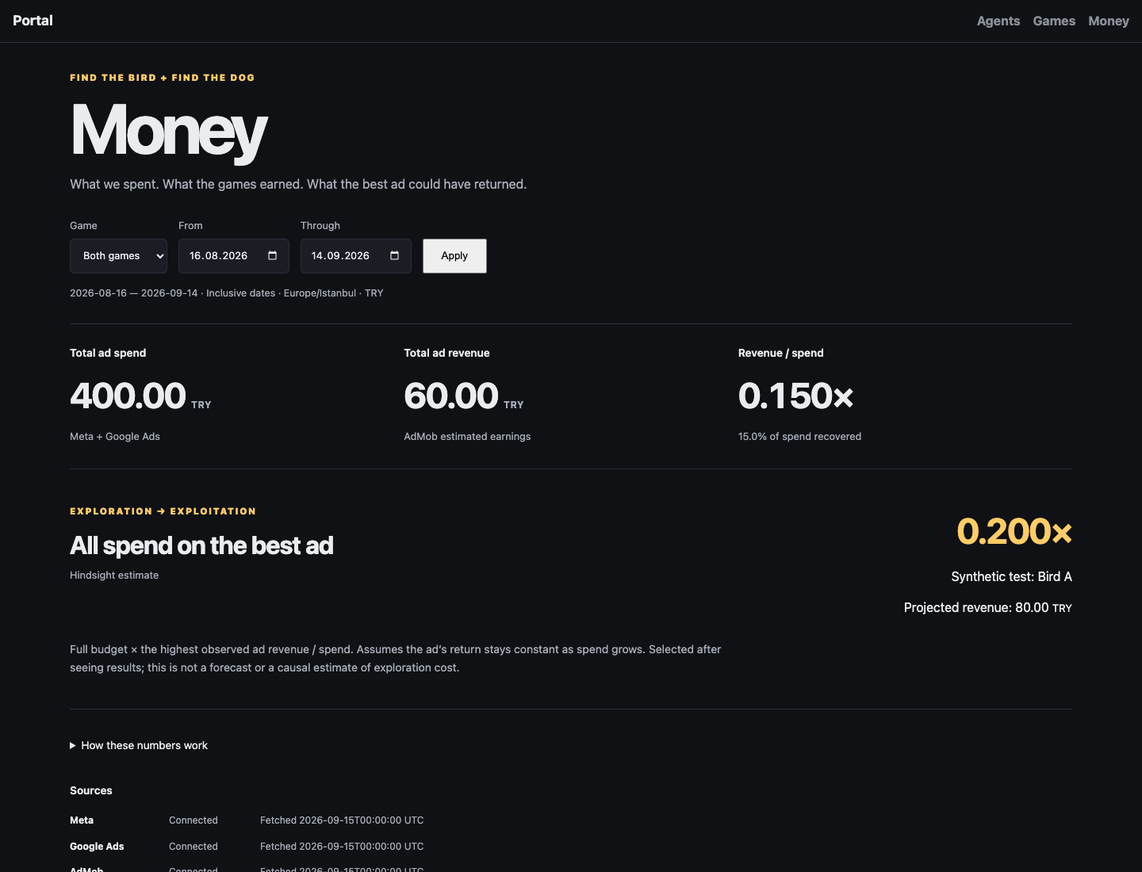
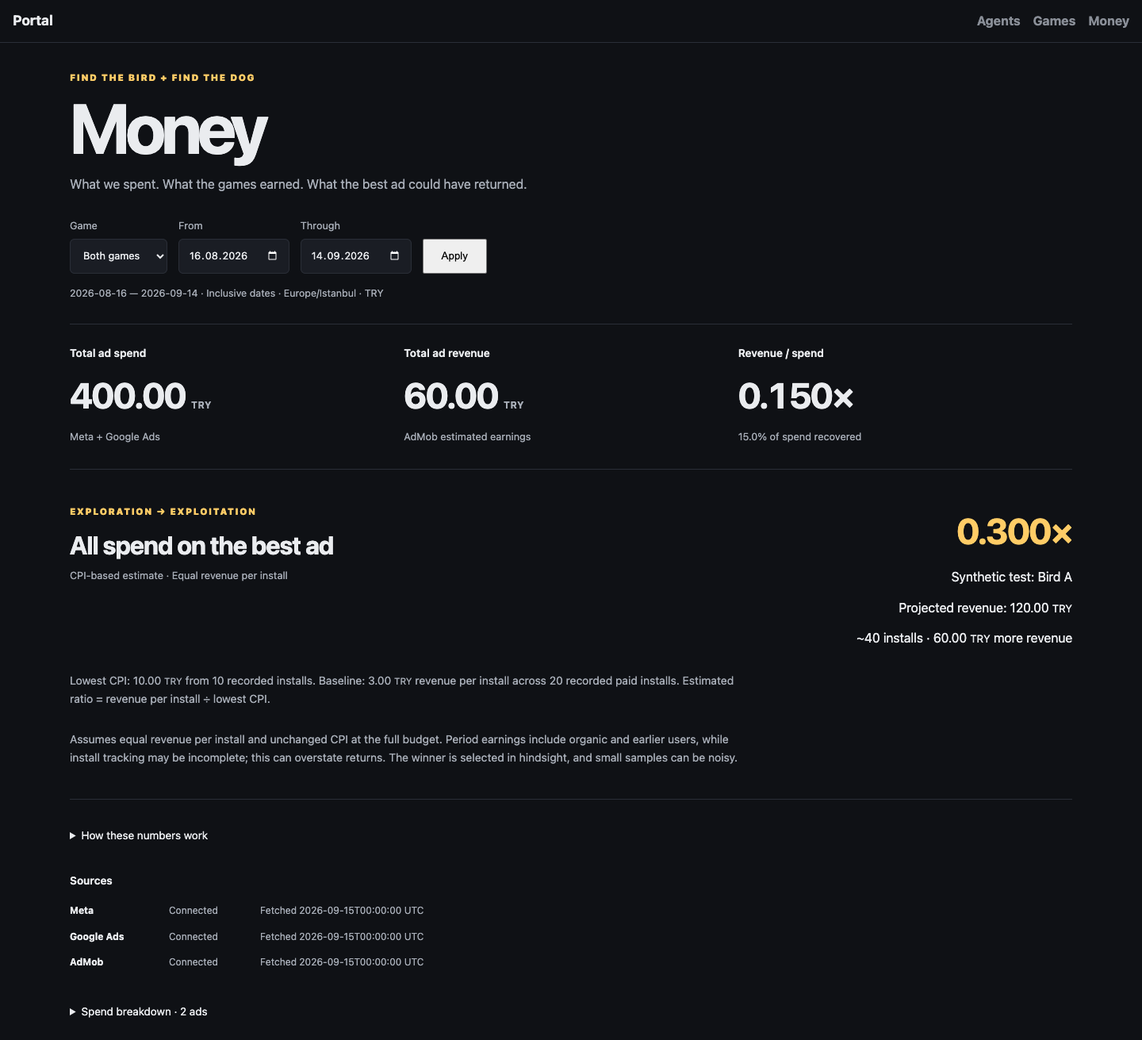
feat(money): estimate full-budget returns from lowest CPI

diff --git a/gallery/templates/money.html b/gallery/templates/money.html
@@ -25,18 +25,19 @@
   <article><h2>Revenue / spend</h2><p class="money-value">{{ ratio(money.ratio) }}</p><p class="money-caption">{% if money.ratio is not none %}{{ '{:.1f}'.format(money.ratio * 100) }}% of spend recovered{% elif money.spend == 0 %}No spend in this period{% else %}Needs complete spend and revenue{% endif %}</p></article>
 </section>
 <section class="money-best" aria-labelledby="best-title">
-  <div><p class="eyebrow">Exploration → exploitation</p><h2 id="best-title">All spend on the best ad</h2><p class="money-caption">Hindsight estimate</p></div>
-  <div class="money-best-result"><p class="money-value">{{ ratio(money.best_ratio) }}</p>{% if money.best %}<p>{{ money.best.name }}</p><p>Projected revenue: {{ cash(money.best_projected_revenue) }}</p>{% endif %}</div>
-  {% if money.best %}<p class="money-explanation">Full budget × the highest observed ad revenue / spend. Assumes the ad’s return stays constant as spend grows. Selected after seeing results; this is not a forecast or a causal estimate of exploration cost.</p>
-  {% else %}<p class="money-explanation">{% if not money.ads %}No paid ads available for this period.{% else %}Revenue must be attributed to each paid ad before we can identify the best one. {{ cash(money.attributed_spend) }} of {{ cash(money.reported_spend) }} in reported spend has ad-level revenue. Missing attribution is not zero revenue.{% endif %}</p>{% endif %}
+  <div><p class="eyebrow">Exploration → exploitation</p><h2 id="best-title">All spend on the best ad</h2><p class="money-caption">CPI-based estimate · Equal revenue per install</p></div>
+  <div class="money-best-result"><p class="money-value">{{ ratio(money.best_ratio) }}</p>{% if money.best %}<p>{{ money.best.name }}</p><p>Projected revenue: {{ cash(money.best_projected_revenue) }}</p><p>~{{ '{:,.0f}'.format(money.best_projected_installs) }} installs · {{ cash(money.best_gain) }} more revenue</p>{% endif %}</div>
+  {% if money.best %}<p class="money-explanation">Lowest CPI: {{ cash(money.best_cpi) }} from {{ '{:g}'.format(money.best.installs) }} recorded installs. Baseline: {{ cash(money.revenue_per_install) }} revenue per install across {{ '{:g}'.format(money.total_installs) }} recorded paid installs. Estimated ratio = revenue per install ÷ lowest CPI.</p>
+  <p class="money-explanation">Assumes equal revenue per install and unchanged CPI at the full budget. Period earnings include organic and earlier users, while install tracking may be incomplete; this can overstate returns. The winner is selected in hindsight, and small samples can be noisy.</p>
+  {% else %}<p class="money-explanation">Needs complete spend and revenue reports, install reporting for every paid ad, and at least one recorded install. Ads with zero recorded installs count toward spend but cannot win.</p>{% endif %}
 </section>
 <details class="money-details"><summary>How these numbers work</summary>
   <p>Revenue / spend compares earnings and acquisition spend recorded during the same dates. Revenue includes organic users and users acquired earlier; it is not cohort ROAS. 1.000× means revenue equals spend.</p>
-  <p>The best-ad ratio uses attributed ad revenue only, never installs, clicks, purchase revenue, or AdMob revenue split in proportion to spend. Meta attribution uses delivery dates with a 7-day click / 1-day view window. Recent delivery may not have matured. Google App campaign spend is included in totals; without ad-level revenue attribution it cannot establish a winning ad.</p>
+  <p>The best-ad estimate uses period ad revenue divided by recorded paid installs, then divides by the lowest observed cost per install (CPI). It assumes the same revenue per install across the selected games and ads. Meta uses recorded mobile app installs on delivery dates with a 7-day click / 1-day view window. Google uses ad-level download conversions. Attribution methods differ, and recent delivery may not have matured. Missing install actions mean no installs recorded, not proof that nobody installed.</p>
   <p>Historical Dog builds used Bird’s AdMob identity. Both-game revenue still includes those earnings once, but the per-game split follows the provider app identity and may be contaminated.</p>
   <p>Coverage: configured Meta and Google Ads accounts, and AdMob mediation earnings for these two games. In-app purchases and other business costs are excluded. Provider earnings are estimates and may be revised. Reports refresh on the next visit after 15 minutes.</p>
 </details>
 <section class="money-sources" aria-label="Reporting sources"><h2>Sources</h2>{% for report in reports %}<div><strong>{{ report.provider }}</strong><span>{{ 'Connected' if report.status == 'ok' else 'Unavailable' }}</span><span>{% if report.observed_at %}Fetched {{ report.observed_at[:19] }} UTC{% else %}No report{% endif %}</span></div>{% endfor %}</section>
-{% if money.ads %}<details class="money-details"><summary>Spend breakdown · {{ money.ads|length }} ads / campaigns</summary><div class="money-table-wrap"><table><thead><tr><th>Ad / campaign</th><th>Game</th><th>Source</th><th>Spend (TRY)</th><th>Attributed ad revenue (TRY)</th><th>Ratio</th></tr></thead><tbody>{% for ad in money.ads %}<tr><td>{{ ad.name }}</td><td>{{ games[ad.game] }}</td><td>{{ ad.provider }}</td><td>{{ '{:,.2f}'.format(ad.spend) }}</td><td>{{ '{:,.2f}'.format(ad.revenue) if ad.revenue is not none else 'Unavailable' }}</td><td>{{ ratio(ad.ratio) }}</td></tr>{% endfor %}</tbody></table></div></details>{% endif %}
+{% if money.ads %}<details class="money-details"><summary>Spend breakdown · {{ money.ads|length }} ads</summary><div class="money-table-wrap"><table><thead><tr><th>Ad</th><th>Game</th><th>Source</th><th>Spend (TRY)</th><th>Recorded installs</th><th>CPI (TRY)</th></tr></thead><tbody>{% for ad in money.ads %}<tr><td>{{ ad.name }}</td><td>{{ games[ad.game] }}</td><td>{{ ad.provider }}</td><td>{{ '{:,.2f}'.format(ad.spend) }}</td><td>{{ '{:g}'.format(ad.installs) if ad.installs is not none else 'Unavailable' }}</td><td>{{ '{:,.2f}'.format(ad.cpi) if ad.cpi is not none else '—' }}</td></tr>{% endfor %}</tbody></table></div></details>{% endif %}
 {% endif %}
 {% endblock %}

diff --git a/gallery/money_providers.py b/gallery/money_providers.py
@@ -79,7 +79,7 @@ def meta(settings, start, end):
     info = request_json(root + "?fields=currency,timezone_name", token)
     if info["currency"] != "TRY" or info["timezone_name"] not in {"Turkey", "Europe/Istanbul"}:
         raise ValueError("Incompatible Meta currency/time zone")
-    params = {"fields": "ad_id,ad_name,adset_id,spend,action_values", "level": "ad",
+    params = {"fields": "ad_id,ad_name,adset_id,spend,actions", "level": "ad",
               "time_range": json.dumps({"since": start, "until": end}), "limit": "500",
               "action_report_time": "impression", "action_attribution_windows": '["7d_click","1d_view"]'}
     rows, identities, cursors = [], {}, set()
@@ -106,12 +106,12 @@ def meta(settings, start, end):
             adset = row["adset_id"]
             game = identities[adset]
             if game:
-                # Purchase value and generic conversion value are NOT ad revenue.
-                values = [v["value"] for v in row.get("action_values", [])
-                          if v["action_type"] == "app_custom_event.fb_mobile_ad_impression"]
-                revenue = str(sum((amount(v) for v in values), amount(0))) if values else None
+                # omni_app_install overlaps mobile_app_install; never add both.
+                values = [v["value"] for v in row.get("actions", [])
+                          if v["action_type"] == "mobile_app_install"]
+                installs = str(sum((amount(v) for v in values), amount(0)))
                 rows.append({"game": game, "ad_id": row["ad_id"], "name": row["ad_name"],
-                             "spend": str(amount(row["spend"])), "revenue": revenue})
+                             "spend": str(amount(row["spend"])), "installs": installs})
         paging = data.get("paging", {})
         if not paging.get("next"):
             return {"currency": "TRY", "timezone": "Europe/Istanbul", "rows": rows}
@@ -140,26 +140,56 @@ def google_ads(settings, start, end):
         account = info["results"][0]["customer"]
         if account["currencyCode"] != "TRY" or account["timeZone"] != "Europe/Istanbul" or account.get("manager"):
             raise ValueError("Incompatible Google Ads account")
-        query = ("SELECT campaign.id, campaign.name, campaign.app_campaign_setting.app_id, metrics.cost_micros "
-                 f"FROM campaign WHERE segments.date BETWEEN '{start}' AND '{end}' AND metrics.cost_micros > 0")
-        body = {"query": query}
-        for _ in range(20):
-            data = request_json(url, token, body, headers)
-            for row in data.get("results", []):
-                campaign = row["campaign"]
-                app_id = campaign.get("appCampaignSetting", {}).get("appId")
-                if not app_id:
-                    raise ValueError("Cannot resolve campaign app identity")
-                game = STORE_GAMES.get(app_id)
-                if game:
-                    rows.append({"game": game, "ad_id": f'{customer}:{campaign["id"]}',
-                                 "name": campaign["name"] + " (campaign)",
-                                 "spend": str(amount(row["metrics"]["costMicros"]) / 1_000_000), "revenue": None})
-            if not data.get("nextPageToken"):
-                break
-            body["pageToken"] = data["nextPageToken"]
-        else:
+        def search(query):
+            body = {"query": query}
+            for _ in range(20):
+                data = request_json(url, token, body, headers)
+                yield from data.get("results", [])
+                if not data.get("nextPageToken"):
+                    return
+                body["pageToken"] = data["nextPageToken"]
             raise ValueError("Incomplete Google Ads pagination")
+
+        window = f"segments.date BETWEEN '{start}' AND '{end}'"
+        campaigns = {}
+        for row in search("SELECT campaign.id, campaign.name, campaign.app_campaign_setting.app_id, metrics.cost_micros "
+                          f"FROM campaign WHERE {window} AND metrics.cost_micros > 0"):
+            campaign = row["campaign"]
+            app_id = campaign.get("appCampaignSetting", {}).get("appId")
+            if not app_id:
+                raise ValueError("Cannot resolve campaign app identity")
+            game = STORE_GAMES.get(app_id)
+            if game:
+                campaigns[campaign["id"]] = {"game": game, "name": campaign["name"],
+                                              "micros": amount(row["metrics"]["costMicros"])}
+        if not campaigns:
+            continue
+        if any(not re.fullmatch(r"\d+", key) for key in campaigns):
+            raise ValueError("Invalid campaign identity")
+        campaign_filter = "campaign.id IN (" + ",".join(campaigns) + ")"
+        ads = search("SELECT campaign.id, ad_group_ad.resource_name, ad_group_ad.ad.id, ad_group_ad.ad.name, metrics.cost_micros "
+                     f"FROM ad_group_ad WHERE {window} AND {campaign_filter} AND metrics.cost_micros > 0")
+        conversions = search("SELECT ad_group_ad.resource_name, segments.conversion_action_category, metrics.conversions "
+                             f"FROM ad_group_ad WHERE {window} AND {campaign_filter} AND segments.conversion_action_category = 'DOWNLOAD'")
+        installs = {}
+        for row in conversions:
+            identity = row["adGroupAd"]["resourceName"]
+            installs[identity] = installs.get(identity, amount(0)) + amount(row["metrics"].get("conversions", "0"))
+        seen_cost = {identity: amount(0) for identity in campaigns}
+        for row in ads:
+            campaign_id = row["campaign"]["id"]
+            if campaign_id not in campaigns:
+                continue
+            campaign = campaigns[campaign_id]
+            identity = row["adGroupAd"]["resourceName"]
+            ad = row["adGroupAd"]["ad"]
+            micros = amount(row["metrics"]["costMicros"])
+            seen_cost[campaign_id] += micros
+            rows.append({"game": campaign["game"], "ad_id": identity,
+                         "name": ad.get("name") or f'{campaign["name"]} · ad {ad["id"]}',
+                         "spend": str(micros / 1_000_000), "installs": str(installs.get(identity, amount(0)))})
+        if any(seen_cost[key] != value["micros"] for key, value in campaigns.items()):
+            raise ValueError("Google ad spend does not reconcile to campaign totals")
     return {"currency": "TRY", "timezone": "Europe/Istanbul", "rows": rows}
 
 

diff --git a/tests/test_money.py b/tests/test_money.py
@@ -9,8 +9,8 @@ def reports():
     return [
         {"provider": "Meta", "kind": "spend", "status": "ok", "currency": "TRY",
          "timezone": "Europe/Istanbul", "rows": [
-             {"game": "find-the-bird", "ad_id": "1", "name": "Bird A", "spend": "100", "revenue": "20"},
-             {"game": "find-the-dog", "ad_id": "2", "name": "Dog B", "spend": "300", "revenue": "30"}]},
+             {"game": "find-the-bird", "ad_id": "1", "name": "Bird A", "spend": "100", "installs": "10"},
+             {"game": "find-the-dog", "ad_id": "2", "name": "Dog B", "spend": "300", "installs": "10"}]},
         {"provider": "Google Ads", "kind": "spend", "status": "ok", "currency": "TRY",
          "timezone": "Europe/Istanbul", "rows": []},
         {"provider": "AdMob", "kind": "revenue", "status": "ok", "currency": "TRY",
@@ -26,8 +26,11 @@ def test_weighted_totals_and_best_ad_counterfactual():
     assert result["revenue"] == Decimal("60")
     assert result["ratio"] == Decimal("0.15")
     assert result["best"]["name"] == "Bird A"
-    assert result["best_ratio"] == Decimal("0.2")
-    assert result["best_projected_revenue"] == Decimal("80")
+    assert result["total_installs"] == 20
+    assert result["revenue_per_install"] == 3
+    assert result["best_cpi"] == 10
+    assert result["best_ratio"] == Decimal("0.3")
+    assert result["best_projected_revenue"] == Decimal("120")
 
 
 def test_filter_before_totalling_or_selecting_winner():
@@ -37,13 +40,48 @@ def test_filter_before_totalling_or_selecting_winner():
     assert result["best"]["name"] == "Dog B"
 
 
-def test_missing_attribution_is_not_zero_or_a_winner():
+def test_missing_install_measurement_blocks_estimate():
     data = reports()
-    data[0]["rows"][0]["revenue"] = None
+    data[0]["rows"][0]["installs"] = None
     result = money.summarize(data, "all")
     assert result["ratio"] == Decimal("0.15")
     assert result["best_ratio"] is None
-    assert result["attributed_spend"] == 300
+    assert result["total_installs"] is None
+
+
+def test_zero_install_ads_count_toward_budget_but_cannot_win():
+    data = reports()
+    data[0]["rows"][0]["installs"] = "0"
+    result = money.summarize(data, "all")
+    assert result["spend"] == 400
+    assert result["best"]["name"] == "Dog B"
+    assert result["best_cpi"] == 30
+    assert result["best_ratio"] == Decimal("0.2")
+
+
+@pytest.mark.parametrize("installs", ["100", None])
+def test_zero_spend_rows_do_not_dilute_or_block_paid_install_baseline(installs):
+    data = reports()
+    data[0]["rows"].append({"game": "find-the-bird", "ad_id": "free", "name": "Zero spend", "spend": "0", "installs": installs})
+    result = money.summarize(data, "all")
+    assert result["total_installs"] == 20
+    assert result["best_ratio"] == Decimal("0.3")
+    assert result["best_projected_installs"] == 40
+    assert result["best_gain"] == 60
+
+
+def test_zero_revenue_is_valid_but_missing_revenue_blocks_estimate():
+    data = reports()
+    data[2]["rows"] = []
+    assert money.summarize(data, "all")["best_ratio"] == 0
+    data[2]["status"] = "unavailable"
+    assert money.summarize(data, "all")["best_ratio"] is None
+
+
+def test_equal_cpi_prefers_larger_observed_sample():
+    data = reports()
+    data[0]["rows"][1]["installs"] = "30"
+    assert money.summarize(data, "all")["best"]["name"] == "Dog B"
 
 
 @pytest.mark.parametrize("failure", ["unavailable", "not_configured"])
@@ -92,7 +130,7 @@ def test_private_route_even_with_public_viewing(client, token, monkeypatch):
     assert page.headers["cache-control"] == "no-store"
     assert "400.00" in page.text
     assert "0.150×" in page.text
-    assert "Hindsight estimate" in page.text
+    assert "CPI-based estimate" in page.text
     assert token not in page.text
 
 

diff --git a/tests/test_money_providers.py b/tests/test_money_providers.py
@@ -5,7 +5,7 @@ import pytest
 from gallery import config, money, money_providers as providers
 
 
-def test_meta_uses_promoted_identity_and_only_ad_revenue(monkeypatch):
+def test_meta_install_actions_do_not_double_count_omni_alias(monkeypatch):
     monkeypatch.setattr(providers, "secret", lambda path: "fixture")
     calls = []
     def request(url, token, body=None, **kwargs):
@@ -21,14 +21,14 @@ def test_meta_uses_promoted_identity_and_only_ad_revenue(monkeypatch):
         assert "action_attribution_windows=" in url
         row = {"ad_id": "1", "ad_name": "Arbitrary title", "adset_id": "10", "spend": "12.50"}
         if "after=" not in url:
-            return {"data": [{**row, "action_values": [{"action_type": "purchase", "value": "999"}]}],
+            return {"data": [{**row, "actions": [{"action_type": "purchase", "value": "999"}]}],
                     "paging": {"next": "https://untrusted.invalid/?access_token=never-follow", "cursors": {"after": "next"}}}
-        return {"data": [{**row, "ad_id": "2", "action_values": [{"action_type": "app_custom_event.fb_mobile_ad_impression", "value": "1.25"}]}]}
+        return {"data": [{**row, "ad_id": "2", "actions": [{"action_type": "mobile_app_install", "value": "3"}, {"action_type": "omni_app_install", "value": "3"}]}]}
     monkeypatch.setattr(providers, "request_json", request)
     result = providers.meta({"token_file": "unused", "account_id": "123"}, "2026-09-01", "2026-09-14")
     assert result["rows"][0]["game"] == "find-the-bird"
-    assert result["rows"][0]["revenue"] is None
-    assert result["rows"][1]["revenue"] == "1.25"
+    assert result["rows"][0]["installs"] == "0"
+    assert result["rows"][1]["installs"] == "3"
     assert all(url.startswith("https://graph.facebook.com/") for url in calls)
     assert calls.count("https://graph.facebook.com/v23.0/") == 1
 
@@ -39,13 +39,18 @@ def test_google_spend_conversion_and_other_games_excluded(monkeypatch):
     def request(url, token, body, headers):
         if "FROM customer" in body["query"]:
             return {"results": [{"customer": {"currencyCode": "TRY", "timeZone": "Europe/Istanbul", "manager": False}}]}
+        if "FROM ad_group_ad" in body["query"]:
+            if "metrics.conversions" in body["query"]:
+                assert "segments.conversion_action_category = 'DOWNLOAD'" in body["query"]
+                return {"results": [{"adGroupAd": {"resourceName": "customers/123/adGroupAds/10~20"}, "metrics": {"conversions": "2.5"}}]}
+            return {"results": [{"campaign": {"id": "10"}, "adGroupAd": {"resourceName": "customers/123/adGroupAds/10~20", "ad": {"id": "20", "name": "App ad"}}, "metrics": {"costMicros": "12345678"}}]}
         return {"results": [{"campaign": {"id": "10", "name": "App campaign", "appCampaignSetting": {"appId": "6796698146"}}, "metrics": {"costMicros": "12345678"}},
                             {"campaign": {"id": "11", "name": "Other", "appCampaignSetting": {"appId": "123"}}, "metrics": {"costMicros": "999999999"}}]}
     monkeypatch.setattr(providers, "request_json", request)
     result = providers.google_ads({"developer_token_file": "unused", "customer_ids": ["123"]}, "2026-09-01", "2026-09-14")
     assert len(result["rows"]) == 1
     assert result["rows"][0]["spend"] == "12.345678"
-    assert result["rows"][0]["revenue"] is None
+    assert result["rows"][0]["installs"] == "2.5"
 
 
 @pytest.mark.parametrize("truncated", [False, True])

diff --git a/gallery/money.py b/gallery/money.py
@@ -58,9 +58,9 @@ def summarize(reports, game):
                 revenues.append(amount(source["revenue"]))
             else:
                 spend = amount(source["spend"])
-                revenue = amount(source["revenue"]) if source.get("revenue") is not None else None
-                rows.append({**source, "provider": report["provider"], "spend": spend, "revenue": revenue,
-                             "ratio": revenue / spend if revenue is not None and spend else None})
+                installs = amount(source["installs"]) if source.get("installs") is not None else None
+                rows.append({**source, "provider": report["provider"], "spend": spend, "installs": installs,
+                             "cpi": spend / installs if installs else None})
     # Reports are required even when a provider has zero delivery.
     names = {r["provider"] for r in reports}
     spend_ok &= {"Meta", "Google Ads"} <= names
@@ -69,13 +69,19 @@ def summarize(reports, game):
     spend = reported_spend if spend_ok else None
     revenue = sum(revenues, Decimal(0)) if revenue_ok else None
     paid = [r for r in rows if r["spend"] > 0]
-    measured = [r for r in paid if r["ratio"] is not None]
-    best = max(measured, key=lambda r: (r["ratio"], r["spend"], r["ad_id"])) if measured and len(measured) == len(paid) and spend_ok else None
+    installs_complete = spend_ok and all(r["installs"] is not None for r in paid)
+    total_installs = sum((r["installs"] for r in paid), Decimal(0)) if installs_complete else None
+    candidates = [r for r in paid if r["installs"] and r["cpi"]]
+    best = min(candidates, key=lambda r: (r["cpi"], -r["installs"], r["ad_id"])) if candidates and installs_complete and revenue is not None else None
+    revenue_per_install = revenue / total_installs if revenue is not None and total_installs else None
+    best_ratio = revenue_per_install / best["cpi"] if best else None
     return {"spend": spend, "reported_spend": reported_spend, "revenue": revenue,
             "ratio": revenue / spend if revenue is not None and spend else None,
-            "best": best, "best_ratio": best["ratio"] if best else None,
-            "best_projected_revenue": spend * best["ratio"] if best else None,
-            "attributed_spend": sum((r["spend"] for r in measured), Decimal(0)),
+            "best": best, "best_ratio": best_ratio, "best_cpi": best["cpi"] if best else None,
+            "best_projected_revenue": spend * best_ratio if best else None,
+            "best_projected_installs": spend / best["cpi"] if best else None,
+            "best_gain": spend * best_ratio - revenue if best else None,
+            "total_installs": total_installs, "revenue_per_install": revenue_per_install,
             "ads": sorted(rows, key=lambda r: (-r["spend"], r["ad_id"])), "issues": issues}
 
 
@@ -84,7 +90,7 @@ def load_reports(start, end):
 
     settings = config.load_config().get("money", {})
     # The identity/settings digest prevents reuse after account configuration changes.
-    key = hashlib.sha256(json.dumps(["money-v1", start, end, settings], sort_keys=True).encode()).hexdigest()
+    key = hashlib.sha256(json.dumps(["money-v2-cpi", start, end, settings], sort_keys=True).encode()).hexdigest()
     path = config.data_dir() / "money" / f"{key}.json"
     def read_cache():
         try:

diff --git a/docs/evidence/2026-09-15-money/evidence.md b/docs/evidence/2026-09-15-money/evidence.md
@@ -1,12 +1,12 @@
 # Money page verification
 
-Status: partial. The page and its numeric/unavailable states are verified locally. Live totals load, but real best-ad performance remains unavailable because ad-level revenue attribution is absent. Production has not been deployed.
+Status: verified locally with live reports and synthetic edge cases. Production activation is authorized and pending deployment.
 
 ## Scope
 
 - Private `/money` page for Find the Bird and Find the Dog, with game and inclusive date filters.
 - TRY spend from configured Meta and Google Ads accounts, AdMob mediation estimated earnings, and revenue divided by spend.
-- Best-ad hindsight calculation uses attributed ad revenue. Missing attribution stays unavailable rather than being filled with zeros or install proxies.
+- Best-ad hindsight replay assigns the same budget to the lowest-CPI ad, assuming equal revenue per recorded paid install and constant CPI at scale. Shows projected installs, revenue, ratio, and revenue gain.
 
 ## Checklist
 
@@ -19,11 +19,11 @@ Status: partial. The page and its numeric/unavailable states are verified locall
 
 ## Evidence strategy
 
-The initial test run failed on the missing `gallery.money` module before implementation. Focused arithmetic/route/provider coverage passes 19 tests. The expanded repository suite passes 477 tests. `ruff check` on the four new Python files and `git diff --check` pass. No new dependency was added. Existing FastAPI/Starlette deprecation warnings are unrelated.
+The initial test run failed on the missing `gallery.money` module before implementation. Focused arithmetic/route/provider coverage passes 24 tests. The expanded repository suite passes 482 tests. `ruff check` on the four new Python files and `git diff --check` pass. No new dependency was added. Existing FastAPI/Starlette deprecation warnings are unrelated.
 
 ## Browser and review results
 
-- [Synthetic desktop success state](synthetic-desktop.png): spend 400, revenue 60, actual ratio 0.150x, best ratio 0.200x, projected revenue 80. These are test values, not business figures.
+- [Synthetic desktop success state](synthetic-desktop.png): spend 400, revenue 60, actual ratio 0.150x, best ratio 0.300x, projected revenue 120, projected installs 40. These are test values, not business figures.
 - [Synthetic phone success state](synthetic-mobile.png) and [expanded disclosures](synthetic-mobile-expanded.png): 390px viewport, 390px document width, internal table scroll reaches 194px of 194px.
 - [Invalid date range](synthetic-invalid-range.png): HTTP 400 preserves filters/navigation with an inline alert. Native ArrowUp changes the end date from September 1 to September 2; Enter submits the corrected September 2 one-day range.
 - [Unavailable provider](synthetic-incomplete.png): failed Meta reporting prevents total spend and ratio while preserving known revenue and usable filters.
@@ -34,15 +34,15 @@ The initial test run failed on the missing `gallery.money` module before impleme
 
 ## Data limits
 
-Live ad-level revenue was absent for the queried paid ads, so the best-ad panel correctly rendered unavailable. Its numeric success state is exercised with synthetic fixtures. Provider identity contamination affects historical per-game earnings; a visible notice accompanies individual game filters. Calendar revenue/spend includes organic and older users and is not cohort ROAS. Google campaign spend contributes to total spend but cannot identify an individual winning ad without attribution.
+Live CPI-based hindsight results and synthetic numeric success states were inspected at desktop and phone widths. Zero-spend rows cannot dilute or block the paid-install denominator; overlapping Meta install aliases are not summed. Provider identity contamination affects historical per-game earnings; a visible notice accompanies individual game filters. Calendar revenue/spend includes organic and older users and is not cohort ROAS. Google ad spend is reconciled to campaign totals, and DOWNLOAD conversions provide its install proxy.
 
 The configured Google Ads manager lists one non-manager customer, which was verified and reported zero spend in the selected period. A different directly accessible customer returned 403 during discovery and is not claimed as covered. The page explicitly scopes coverage to configured accounts.
 
 ## Privacy and deployment
 
-This repository is public. Committed screenshots use synthetic data only. Live snapshots, credentials, runtime configuration, and live financial screenshots are excluded. Production configuration and service restart remain a separate deployment action.
+This repository is public. Committed screenshots use synthetic data only. Live snapshots, credentials, runtime configuration, and live financial screenshots are excluded. Production configuration and service restart are explicitly authorized.
 
-Next action: review the local implementation and approve production activation. Resolve ad-level revenue attribution before treating the fourth metric as measurable; do not substitute CPI without an explicit product decision.
+Next action: merge after green CI and deploy the approved CPI-based implementation. Final code review found no blocking issues; paid-install denominator regressions pass.
 
 ## Provider references
 

diff --git a/docs/money.md b/docs/money.md
@@ -4,11 +4,12 @@
 
 ## Metrics
 
-- Spend is Meta ad spend plus Google Ads App campaign cost, using configured accounts only.
+- Spend is Meta ad spend plus Google Ads ad cost, reconciled to App campaign totals, using configured accounts only.
 - Revenue is AdMob mediation `ESTIMATED_EARNINGS`, requested in TRY and converted from micros with Decimal arithmetic. In-app purchases are excluded.
 - Revenue/spend is a calendar-period comparison, not cohort ROAS: revenue includes organic and previously acquired users.
-- The best-ad ratio is the maximum attributed ad revenue/spend among paid ads. It requires attribution for every paid row. Meta uses impression-time reporting with a fixed 7-day click / 1-day view window so revenue is credited to the delivery dates that generated the spend. Recent delivery may not have matured. Projected revenue is that ratio multiplied by the selected total spend. This hindsight estimate assumes constant returns under scaling and cannot establish a causal cost of exploration.
-- Missing ad revenue is not zero. Only Meta's explicit `app_custom_event.fb_mobile_ad_impression` action value is accepted as attributed ad revenue; generic purchase/conversion values are excluded. Google campaign costs do not manufacture ad-level attribution.
+- The best-ad estimate replays the full selected budget at the lowest observed positive-spend CPI, assuming equal revenue per install across the selected games and ads. Revenue per install = total period ad revenue / recorded paid installs. Projected installs = total spend / lowest CPI. Projected revenue = projected installs × revenue per install. Projected revenue/spend = revenue per install / lowest CPI. The panel also shows the gain over observed revenue.
+- Meta uses `mobile_app_install` actions with impression-time reporting and a fixed 7-day click / 1-day view window. `omni_app_install` overlaps and is not added again. Google uses ad-level `metrics.conversions` filtered to the DOWNLOAD conversion category; modeled fractional conversions are preserved. Missing actions in a successful report mean zero *recorded* installs. A missing install measurement or failed provider prevents the estimate. Zero-install ads remain in spend but cannot win; equal CPI prefers the larger sample.
+- Period earnings include organic and earlier users, while paid installs may be under-attributed. Their quotient is an optimistic proxy, not measured lifetime revenue per acquired user. Different providers' attribution methods and recent cohorts are not fully comparable. The replay assumes unchanged CPI and monetization at higher spend; hindsight selection and small samples prevent causal claims about exploration cost.
 
 Missing providers, incomplete pagination, invalid values, incompatible currencies/time zones, and unresolved identities prevent complete totals. Provider failures expose redacted status only. Valid empty provider results mean zero delivery. Historical Dog-to-Bird AdMob identity contamination is disclosed for per-game reporting.
 
@@ -55,4 +56,4 @@ Snapshots live in `GALLERY_DATA_DIR/money`, keyed by date window and configurati
 uv run --extra dev pytest tests/test_money.py tests/test_money_providers.py -q
 ```
 
-Before deployment, use a separate `GALLERY_DATA_DIR` and loopback uvicorn instance to read the selected provider reports and inspect `/money` in the browser. Compare individual-game and combined totals for the same dates. Confirm account coverage, the unavailable-attribution state, and that anonymous visitors reach login even when public artifact viewing is enabled. Installing runtime configuration or restarting the production Portal service requires separate deployment authorization.
+Before deployment, use a separate `GALLERY_DATA_DIR` and loopback uvicorn instance to read the selected provider reports and inspect `/money` in the browser. Compare individual-game and combined totals for the same dates. Confirm account coverage, the CPI replay and its assumptions, missing-provider behavior, and that anonymous visitors reach login even when public artifact viewing is enabled. Installing runtime configuration or restarting the production Portal service requires separate deployment authorization.
